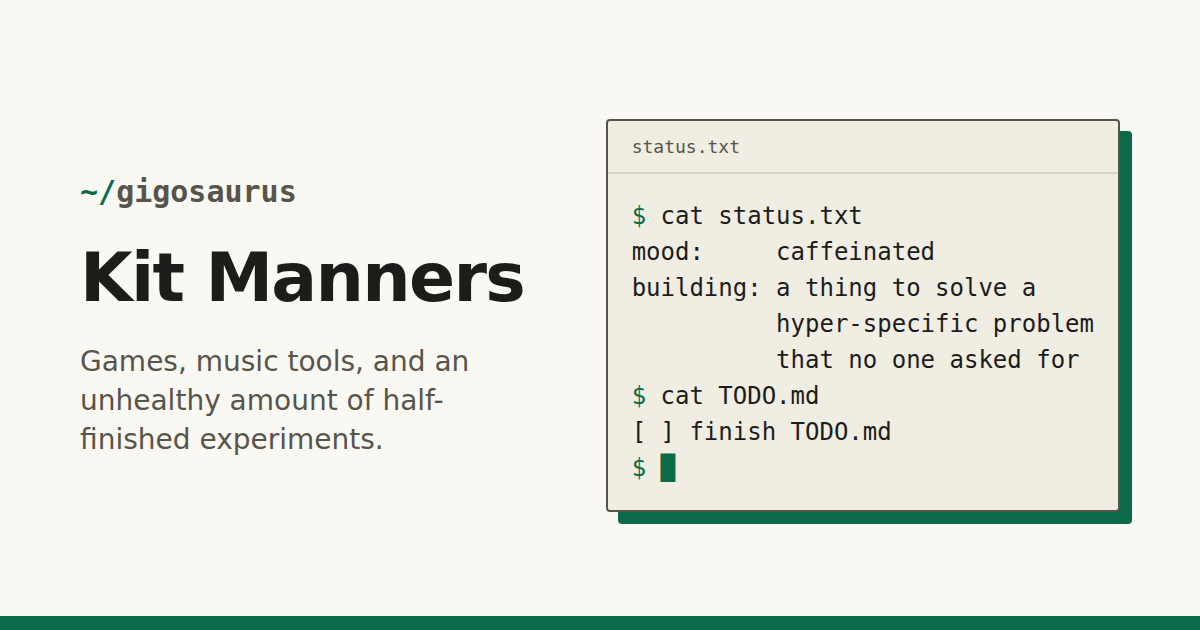
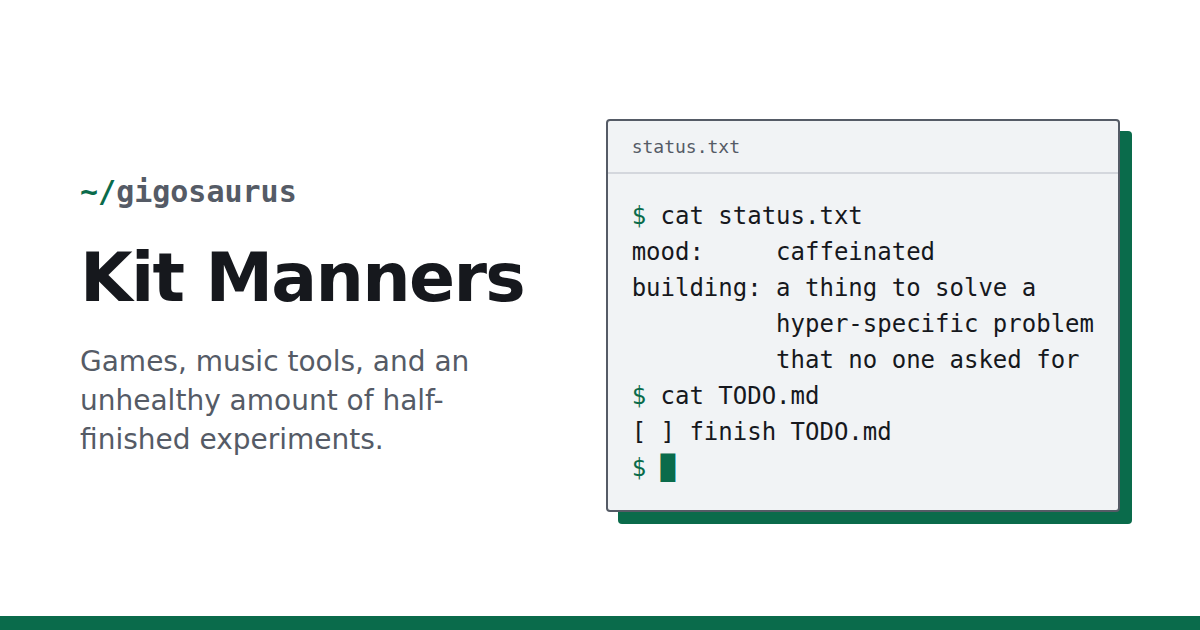
New PartyZone and Alt1 drawings; swap beige light theme for white and cool grey
Claude-Session: https://claude.ai/code/session_01RmdXh7kirsYfMvExZBt395

diff --git a/index.html b/index.html
@@ -5,7 +5,7 @@
   <meta name="viewport" content="width=device-width, initial-scale=1">
   <title>Kit Manners (@gigosaurus)</title>
   <meta name="description" content="Kit Manners (@gigosaurus): games, music tools, and an unhealthy amount of half-finished experiments.">
-  <meta name="theme-color" content="#faf8f2" media="(prefers-color-scheme: light)">
+  <meta name="theme-color" content="#ffffff" media="(prefers-color-scheme: light)">
   <meta name="theme-color" content="#121412" media="(prefers-color-scheme: dark)">
   <meta name="color-scheme" content="light dark">
 
@@ -142,13 +142,7 @@ reading:  An Acolyte's Guide to
             <li data-kind="games">
               <article class="project">
                 <div class="project-art" aria-hidden="true">
-                  <svg viewBox="0 0 320 160" focusable="false">
-                    <path class="thin" d="M50 38L136 70M50 80L136 80M50 122L136 90M96 58L136 74M96 102L136 86M270 38L184 70M270 80L184 80M270 122L184 90M224 58L184 74M224 102L184 86"/>
-                    <circle cx="40" cy="36" r="9"/><circle cx="40" cy="80" r="9"/><circle cx="40" cy="124" r="9"/><circle cx="86" cy="58" r="9"/><circle cx="86" cy="102" r="9"/>
-                    <circle cx="280" cy="36" r="9"/><circle cx="280" cy="80" r="9"/><circle cx="280" cy="124" r="9"/><circle cx="234" cy="58" r="9"/><circle cx="234" cy="102" r="9"/>
-                    <rect class="a" x="136" y="58" width="48" height="44" rx="3"/>
-                    <path class="a" d="M148 74h24M148 86h24"/>
-                  </svg>
+                  <svg viewBox="0 0 320 160" focusable="false"><path class="solid" d="M90 50l35 20v40l-35 20-35-20v-40z"/><path d="M55 70l35 20 35-20M90 90v40"/><path class="solid" d="M160 50l35 20v40l-35 20-35-20v-40z"/><path d="M125 70l35 20 35-20M160 90v40"/><path class="solid" d="M230 50l35 20v40l-35 20-35-20v-40z"/><path d="M195 70l35 20 35-20M230 90v40"/><path class="solid" d="M160 10l35 20v40l-35 20-35-20v-40z"/><path d="M125 30l35 20 35-20M160 50v40"/><path class="a f" d="M160 10l35 20-35 20-35-20z"/></svg>
                 </div>
                 <div class="project-body">
                   <h3 class="project-title">PartyZone</h3>
@@ -185,10 +179,12 @@ reading:  An Acolyte's Guide to
                   <svg viewBox="0 0 320 160" focusable="false">
                     <rect x="24" y="18" width="272" height="124" rx="4"/>
                     <path class="thin" d="M24 38h272"/>
-                    <path d="M44 120c30-40 54-30 78-50s46-10 66-30"/>
-                    <circle cx="60" cy="74" r="10"/>
-                    <rect class="a" x="190" y="52" width="92" height="72" rx="3"/>
-                    <path class="a" d="M202 72l6 6 10-12M226 72h42M202 92h66M202 108h44"/>
+                    <rect x="52" y="64" width="22" height="22" rx="2"/><rect x="80" y="64" width="22" height="22" rx="2"/>
+                    <rect x="52" y="92" width="22" height="22" rx="2"/><rect x="80" y="92" width="22" height="22" rx="2"/>
+                    <path class="a dashed" d="M42 54h72v70H42z"/>
+                    <path class="a" d="M130 89h36M156 79l10 10-10 10"/>
+                    <rect class="a solid" x="182" y="62" width="94" height="54" rx="3"/>
+                    <g class="t"><text x="229" y="96" text-anchor="middle" class="ta" style="font-size:20px">= 42</text></g>
                   </svg>
                 </div>
                 <div class="project-body">

diff --git a/styles.css b/styles.css
@@ -9,12 +9,12 @@
 :root {
   color-scheme: light dark;
 
-  /* Light theme: warm paper + one green accent (text pairs meet WCAG AA) */
-  --bg: #faf8f2;
-  --bg-alt: #f0ede3;
-  --text: #1c1c1a;
-  --text-muted: #57554b;
-  --border: #d6d2c4;
+  /* Light theme: white and cool grey + one green accent (text pairs meet WCAG AA) */
+  --bg: #ffffff;
+  --bg-alt: #f1f3f5;
+  --text: #16181d;
+  --text-muted: #555b66;
+  --border: #d4d7dd;
   --accent: #0a6b4b;
   --accent-contrast: #ffffff;
   --focus: #b45309;
@@ -203,6 +203,7 @@ h1 { font-size: clamp(2.25rem, 1rem + 4.2vw, 3.75rem); line-height: 1.08; letter
 .project-art .a { stroke: var(--accent); }
 .project-art .f { fill: var(--accent); }
 .project-art .thin { stroke-width: 1; }
+.project-art .solid { fill: var(--bg); }
 .project-art .dashed { stroke-dasharray: 5 4; }
 .project-art .t text { fill: currentColor; stroke: none; font: 11px var(--font-mono); }
 .project-art .t .ta { fill: var(--accent); font-weight: 700; }
